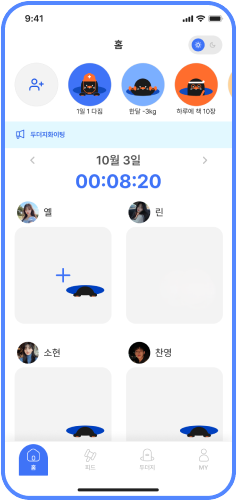
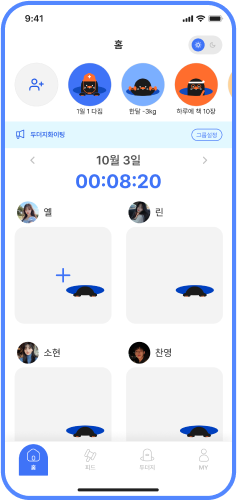
fix: QA -#92

diff --git a/src/containers/home/HomeContainer.tsx b/src/containers/home/HomeContainer.tsx
@@ -173,18 +173,22 @@ const HomeContainer = () => {
               />
             )}
             {/* 공지사항 */}
-            <div className="px-[16px] py-[12px] bg-[#E2F8FF] mb-[12px] flex items-center gap-[12px] dark:bg-[#1e3060]">
-              <Notice />
-              <p className="text-primary text-[12px] font-semibold flex-grow">
-                {notice ? notice : '그룹 공지사항을 입력해보세요.'}
-              </p>
-              <button
-                className="border-solid border-[1px] border-primary text-[12px] text-primary px-[8px] py-[4px] font-semibold rounded-[8px]"
-                onClick={() => navigate(`/mypage/group/info?id=${groupId}`)}
-              >
-                그룹설정
-              </button>
-            </div>
+            {groups?.data && groups.data.length > 0 ? (
+              <div className="px-[16px] py-[12px] bg-[#E2F8FF] mb-[12px] flex items-center gap-[12px] dark:bg-[#1e3060]">
+                <Notice />
+                <p className="text-primary text-[12px] font-semibold flex-grow dark:text-[#D5EBFF]">
+                  {notice ? notice : '그룹 공지사항을 입력해보세요.'}
+                </p>
+                <button
+                  className="border-solid border-[1px] border-primary text-[10px] text-primary px-[8px] py-[4px] font-semibold rounded-[999px] dark:text-[#D5EBFF] dark:border-[#D5EBFF]"
+                  onClick={() => navigate(`/mypage/group/info?id=${groupId}`)}
+                >
+                  그룹설정
+                </button>
+              </div>
+            ) : (
+              <div className="h-[49px] mb-[12px]"></div>
+            )}
             <div className="px-[16px]">
               {/* 시간 */}
               <div className="mb-[8px] h-[30px] relative">
@@ -202,15 +206,15 @@ const HomeContainer = () => {
               {/* 타이머 */}
               <HomeTimer />
               {/* 다짐 */}
-              {groups && dazims && (
+              {groups && (
                 <HomeDazimContainer
                   groups={groups.data}
                   user={user.data}
-                  dazims={dazims.data}
+                  dazims={dazims?.data}
                   isTooltip={
-                    dazims.data.users[0].isMe &&
+                    dazims?.data.users[0].isMe &&
                     searchDate === today &&
-                    dazims.data.myDazimCount === 0
+                    dazims?.data.myDazimCount === 0
                   }
                   isPlus={searchDate === today}
                   onClickDazim={onClickDazim}

diff --git a/src/components/contents/home/HomeDazim.tsx b/src/components/contents/home/HomeDazim.tsx
@@ -3,6 +3,7 @@ import showToast from '@lib/utils/toast';
 import { ReactComponent as DodoesdidFull } from '@assets/images/common/dodoesdid-full.svg';
 import { ReactComponent as DodoesdidHalf } from '@assets/images/common/dodoesdid-half.svg';
 import { ReactComponent as DodoesdidHide } from '@assets/images/common/dodoesdid-hide.svg';
+import CameraIcon from '@assets/images/home/camera-blue.png';
 import { ReactComponent as PlusIcon } from '@assets/images/home/plus.svg';
 
 import { DazimUser } from '../../../types/dazims';
@@ -104,14 +105,16 @@ const HomeDazim = ({
             onClick={onClick}
           >
             {/* 사진 */}
-            {user?.dazim?.photo ? (
+            {user?.dazim?.photo && (
               <img
                 src={user?.dazim?.photo}
                 alt="다짐이미지"
                 className="w-[100%] h-[100%] object-cover"
               />
-            ) : (
-              <PlusIcon />
+            )}
+            {!user?.dazim?.content && isPlus && <PlusIcon />}
+            {user?.dazim?.content && !user?.dazim?.isSuccess && (
+              <img src={CameraIcon} />
             )}
             {/* 두더지 */}
             {!user?.dazim ? (
@@ -149,16 +152,16 @@ const HomeDazim = ({
             onClick={onClick}
           >
             {/* 사진 */}
-            {user?.dazim?.photo ? (
+            {user?.dazim?.photo && (
               <img
                 src={user?.dazim?.photo}
                 alt="다짐이미지"
                 className="w-[100%] h-[100%] object-cover"
               />
-            ) : isPlus ? (
-              <PlusIcon />
-            ) : (
-              ''
+            )}
+            {!user?.dazim?.content && isPlus && <PlusIcon />}
+            {user?.dazim?.content && !user?.dazim?.isSuccess && (
+              <img src={CameraIcon} />
             )}
             {/* 두더지 */}
             {!user?.dazim ? (
@@ -168,7 +171,6 @@ const HomeDazim = ({
             ) : (
               <DodoesdidFull className="absolute bottom-[44px] right-[10px]" />
             )}
-
             {/* 글 */}
             {user?.dazim?.content && (
               <p className="w-[136px] py-[4px] px-[8px] truncate text-center bg-[rgba(0,0,0,.7)] rounded-[4px] text-white text-[14px] absolute bottom-[10px]">

diff --git a/src/pages/mypage/index.tsx b/src/pages/mypage/index.tsx
@@ -1,8 +1,12 @@
 import { getUser } from '@lib/api/user';
+import useIsDarkMode from '@lib/hooks/useIsDarkMode';
 
 import Button from '@components/common/Button';
 import Divider from '@components/common/Divider';
 import TopBar from '@components/common/TopBar';
+
+import DodosedidImageDark from '@assets/images/home/dodoesdid-disabled-dark.png';
+import DodosedidImage from '@assets/images/home/dodoesdid-disabled.png';
 
 import { useQuery } from '@tanstack/react-query';
 
@@ -13,6 +17,8 @@ import { useNavigate } from 'react-router-dom';
 
 const Mypage = () => {
   const navigate = useNavigate();
+  const isDarkMode = useIsDarkMode();
+
   const { data: user } = useQuery<AxiosResponse<User>>({
     queryKey: ['user'],
     queryFn: getUser,
@@ -24,11 +30,19 @@ const Mypage = () => {
       <div className="px-[16px]">
         <div className="flex gap-[16px] items-center mb-[16px] ">
           <div className="w-[88px] aspect-square rounded-full flex justify-center overflow-hidden items-center border-[0.6px] border-solid border-gray-40 dark:border-[#444]">
-            <img
-              src={user?.data.profile?.thumbnail}
-              alt="유저이미지"
-              className="w-[100%] h-[100%] object-cover"
-            />
+            {user?.data.profile ? (
+              <img
+                src={user?.data.profile?.thumbnail}
+                alt="유저이미지"
+                className="w-[100%] h-[100%] object-cover"
+              />
+            ) : (
+              <img
+                src={isDarkMode ? DodosedidImageDark : DodosedidImage}
+                alt="두더지"
+                className="w-[80%]"
+              />
+            )}
           </div>
           <div>
             <p className="text-black text-[20px] font-semibold mb-[12px] dark:text-gray-30">

diff --git a/src/containers/login/LoginEmailContainer.tsx b/src/containers/login/LoginEmailContainer.tsx
@@ -1,13 +1,11 @@
 import { login } from '@lib/api/user';
-import useDarkMode from '@lib/hooks/useDarkMode';
 
 import Button from '@components/common/Button';
 import CheckBox from '@components/common/CheckBox';
 import Input from '@components/common/Input';
 import TopBar from '@components/common/TopBar';
 
-import { ReactComponent as LogoDark } from '@assets/images/common/logo-mix-dark.svg';
-import { ReactComponent as Logo } from '@assets/images/common/logo-mix.svg';
+import { ReactComponent as Logo } from '@assets/images/common/logo-blue.svg';
 
 import { useMutation } from '@tanstack/react-query';
 
@@ -18,7 +16,6 @@ import { Controller, FieldValues, useForm } from 'react-hook-form';
 import { Link, useNavigate } from 'react-router-dom';
 
 const LoginEmailContainer = () => {
-  const isDarkMode = useDarkMode();
   const navigate = useNavigate();
   const {
     control,
@@ -55,7 +52,7 @@ const LoginEmailContainer = () => {
       <div>
         <TopBar title="로그인" backLink="/login" />
         <div className="px-[16px]">
-          {isDarkMode ? <LogoDark /> : <Logo />}
+          <Logo />
           <p className="py-[22px] text-[20px] font-semibold text-gray-100 dark:text-white">
             시작해볼까요?
           </p>

diff --git a/src/components/contents/mypage/MypageGroupExitDrawer.tsx b/src/components/contents/mypage/MypageGroupExitDrawer.tsx
@@ -8,9 +8,19 @@ import { ReactComponent as CloseButton } from '@assets/images/common/close.svg';
 import { Drawer } from 'antd';
 import React, { useEffect, useRef } from 'react';
 
-type Props = { isOpen: boolean; onClose: () => void; onClick: () => void };
+type Props = {
+  groupName: string;
+  isOpen: boolean;
+  onClose: () => void;
+  onClick: () => void;
+};
 
-const MypageGroupExitDrawer = ({ isOpen, onClose, onClick }: Props) => {
+const MypageGroupExitDrawer = ({
+  groupName,
+  isOpen,
+  onClose,
+  onClick,
+}: Props) => {
   const isDarkMode = useDarkMode();
   const inputRef = useRef<HTMLInputElement | null>(null);
 
@@ -47,7 +57,7 @@ const MypageGroupExitDrawer = ({ isOpen, onClose, onClick }: Props) => {
           />
         )}
         <p className="text-primary font-semibold text-[16px] mb-[19px] text-center">
-          1일 1다짐
+          {groupName}
         </p>
         <p className="text-gray-100 font-semibold text-[16px] mb-[42px] text-center dark:text-gray-30">
           그룹을 나가시겠어요?

diff --git a/src/components/contents/statistics/month/MonthlyCard.tsx b/src/components/contents/statistics/month/MonthlyCard.tsx
@@ -5,6 +5,7 @@ import { ReactComponent as RightArrow } from '@assets/images/statistics/right-ar
 
 import { IMonthlyCard } from '../../../../types/statisticsType';
 import { addDays, format, startOfMonth } from 'date-fns';
+import React from 'react';
 
 const MonthlyCard = ({ now, group, isRecordView }: IMonthlyCard) => {
   const isDarkMode = useDarkMode();
@@ -37,7 +38,7 @@ const MonthlyCard = ({ now, group, isRecordView }: IMonthlyCard) => {
                   <div key={`${weekIndex}-${dayIndex}`}>
                     {thisMonth ? (
                       <div
-                        className={`text-white text-[11px] font-semibold rounded-[4px] w-[18px] h-[18px] flex items-center justify-center m-[1px] pt-[3px] ${
+                        className={`text-white text-[11px] font-semibold rounded-[4px] w-[18px] h-[18px] flex items-center justify-center m-[1px] ${
                           group.dazimSuccessDates.includes(dateData)
                             ? isRecordView
                               ? 'bg-sub-400'

diff --git a/src/pages/statistics/DodoesdidNotFound.tsx b/src/pages/statistics/DodoesdidNotFound.tsx
@@ -6,6 +6,7 @@ import TopBar from '@components/common/TopBar';
 import DodosedidImageDark from '@assets/images/home/dodoesdid-disabled-dark.png';
 import DodosedidImage from '@assets/images/home/dodoesdid-disabled.png';
 
+import React from 'react';
 import { useNavigate } from 'react-router-dom';
 
 const DodoesdidNotFound = () => {
@@ -14,10 +15,10 @@ const DodoesdidNotFound = () => {
   return (
     <>
       <>
-        <TopBar title="피드" backLink="/" />
+        <TopBar title="두더지" />
         <div className="mt-[166px] flex flex-col items-center">
           <p className="text-gray-100 text-[16px] mb-[22px] dark:text-gray-30">
-            통계가 아직 없으시네요, 다짐을 등록해주세요!
+            두더지가 아직 없으시네요, 다짐을 등록해주세요!
           </p>
           <Button
             buttonType="fill-semibold"

diff --git a/src/pages/login/index.tsx b/src/pages/login/index.tsx
@@ -9,11 +9,11 @@ import { Link } from 'react-router-dom';
 const LoginPage = () => {
   return (
     <div className="bg-primary h-lvh flex flex-col justify-between">
-      <div className="pt-[126px] flex flex-col items-center gap-[12px]">
-        <p className="text-white font-semibold text-[17px]">
+      <div className="pt-[182px] flex flex-col items-center">
+        <p className="text-white font-semibold text-[14px] mb-[12px]">
           친구들과 함께 하는 1일 1다짐
         </p>
-        <Logo />
+        <Logo className="mb-[16px]" />
         <img src={DodosedidImage} alt="두더지이미지" />
       </div>
       <div className="pb-[50px] flex flex-col items-center px-[16px]">

diff --git a/src/components/contents/onboarding/SplashScreen.tsx b/src/components/contents/onboarding/SplashScreen.tsx
@@ -7,11 +7,11 @@ const SplashScreen = () => {
   return (
     <div className="bg-primary h-lvh relative z-50">
       <div className="absolute top-[50%] translate-y-[-50%]">
-        <div className="flex flex-col items-center gap-[12px]">
-          <p className="text-white font-semibold text-[17px]">
+        <div className="flex flex-col items-center">
+          <p className="text-white font-semibold text-[14px] mb-[12px]">
             친구들과 함께 하는 1일 1다짐
           </p>
-          <Logo />
+          <Logo className="mb-[16px]" />
           <img src={DodosedidImage} alt="두더지이미지" />
         </div>
       </div>

diff --git a/src/pages/statistics/DodoesdidPage.tsx b/src/pages/statistics/DodoesdidPage.tsx
@@ -19,7 +19,7 @@ import {
   startOfMonth,
   startOfWeek,
 } from 'date-fns';
-import { useState } from 'react';
+import React, { useState } from 'react';
 
 const DodoesdidPage = () => {
   const [isMonthlyView, setIsMonthlyView] = useState(false);
@@ -70,7 +70,7 @@ const DodoesdidPage = () => {
   });
 
   if (isLoading || isFetching) {
-    return <div>로딩 중...</div>;
+    return null;
   }
 
   if (!data || data.length === 0) {

diff --git a/src/pages/feed/FeedNotFound.tsx b/src/pages/feed/FeedNotFound.tsx
@@ -14,7 +14,7 @@ const FeedNotFound = () => {
 
   return (
     <>
-      <TopBar title="피드" backLink="/" />
+      <TopBar title="피드" />
       <div className="mt-[166px] flex flex-col items-center">
         <p className="text-gray-100 text-[16px] mb-[22px] dark:text-gray-30">
           피드가 아직 없으시네요, 다짐을 등록해주세요!

diff --git a/src/pages/mypage/group-info.tsx b/src/pages/mypage/group-info.tsx
@@ -244,6 +244,7 @@ const MyGroupInfoPage = () => {
       )}
       {isOpenExitDrawer && (
         <MypageGroupExitDrawer
+          groupName={groupDetail.name}
           isOpen={isOpenExitDrawer}
           onClose={toggleExitDrawer}
           onClick={onClickExitSubmit}
